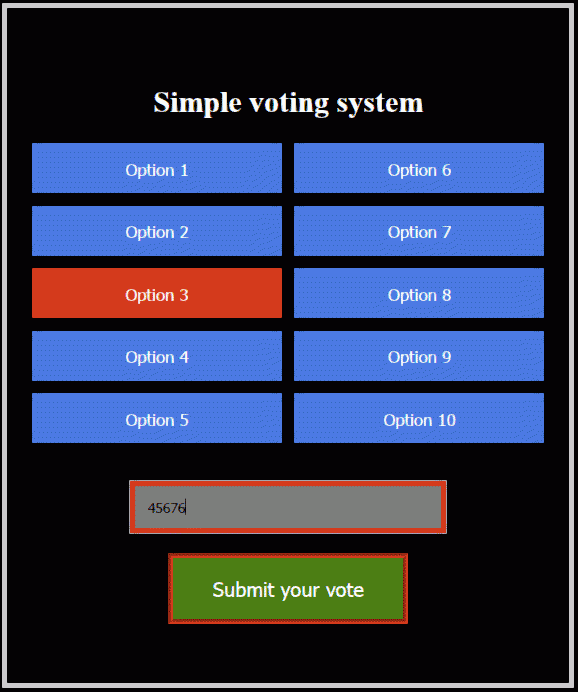
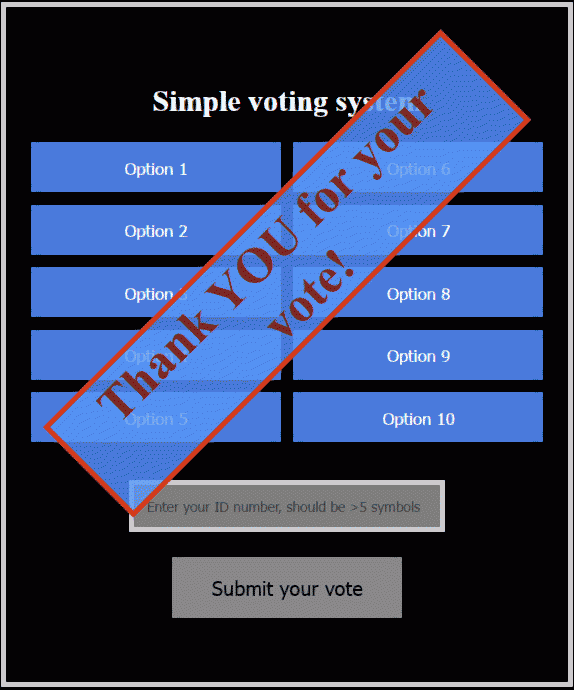
Pix #2

diff --git a/src/vote.scss b/src/vote.scss
@@ -153,8 +153,8 @@ p {
   font-size: 40px;
   font-weight: 900;
   border: 4px red solid;
-  color: red;
-  background-color: rgba(8, 154, 245, 0.5);
+  color: rgb(152, 17, 17);
+  background-color: rgba(8, 154, 245, 0.8);
   top: 30%;
   left: 0;
   transform: rotate(-45deg);
